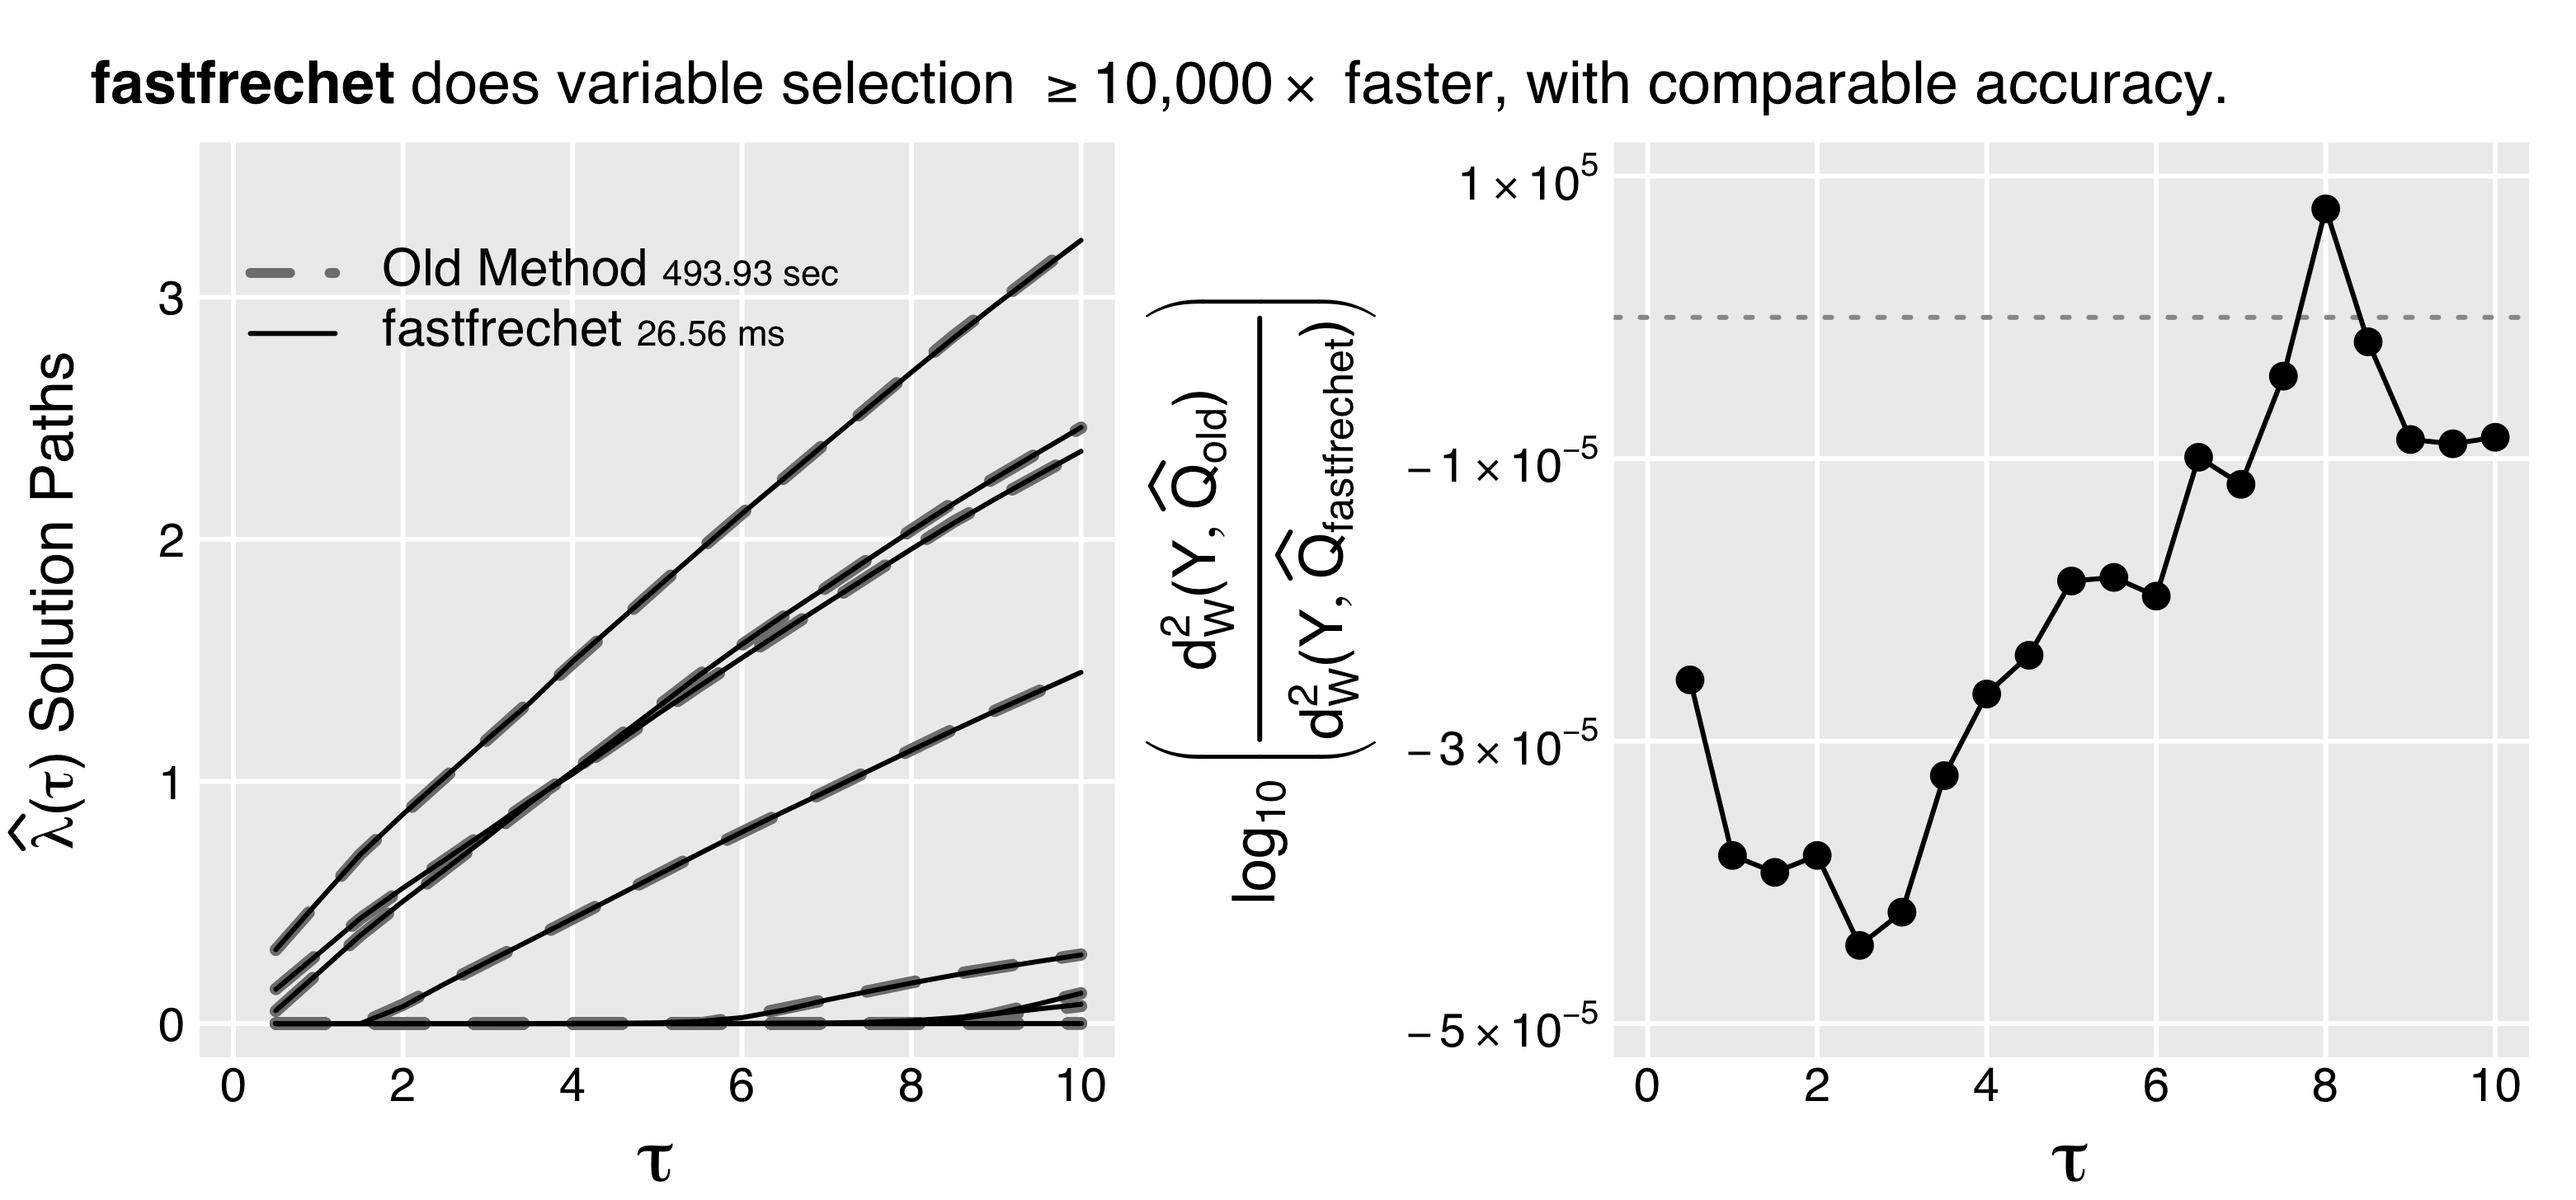
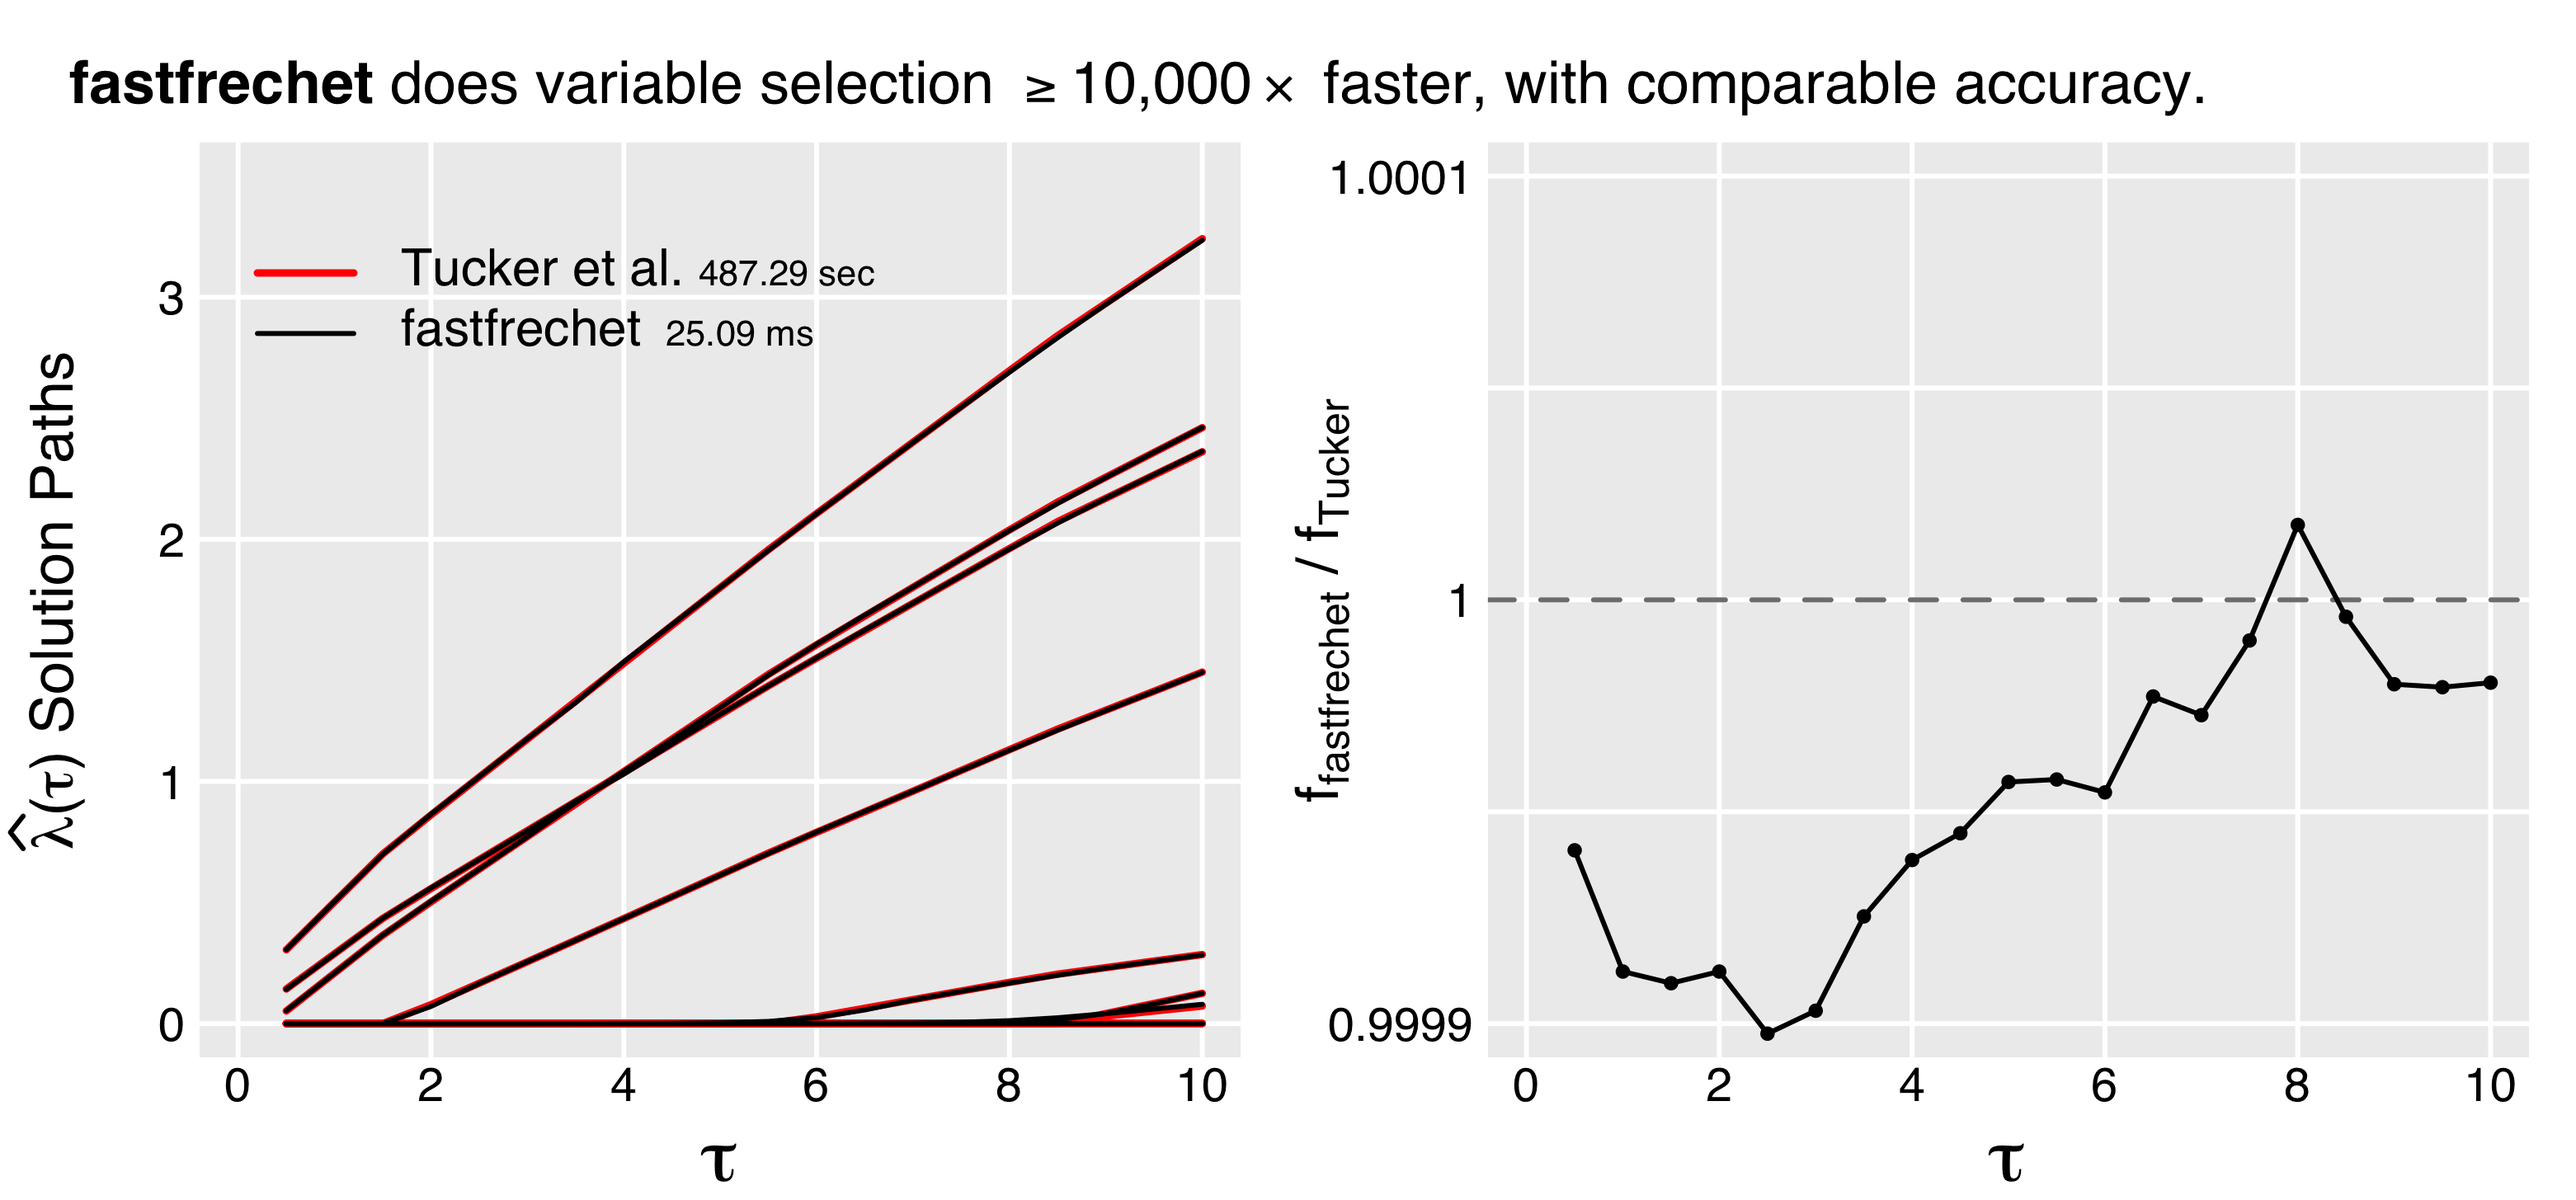
Update paper Figure captions and include new figure with clearer axis labels.

diff --git a/paper.md b/paper.md
@@ -200,10 +200,9 @@ accept this lower bound constraint as an argument.\label{fig:frechetreg_comparis
 
 ![Variable selection comparison between @tucker_variable_2023 algorithm and
 `fastfrechet`, across $\tau = \{0.5, 1, \dots, 10\}$. (*left*) Variable
-selection solution paths and computation times. (*right*) Optimization accuracy
-comparison; values below zero (grey dotted line) correspond to superior accuracy
-of `fastfrechet`, and values above zero correspond to superior accuracy
-of @tucker_variable_2023 algorithm.
+selection solution paths and computation times. (*right*) Relative objective
+function ratios at $\widehat{\pmb{\lambda}}(\tau)$ solutions; values below 1 (gray dashed
+line) indicate `fastfrechet` more effectively minimized the objective.
 \label{fig:friso_comparison}](figures/friso_comparison.png){width="4.5in"}
 
 
